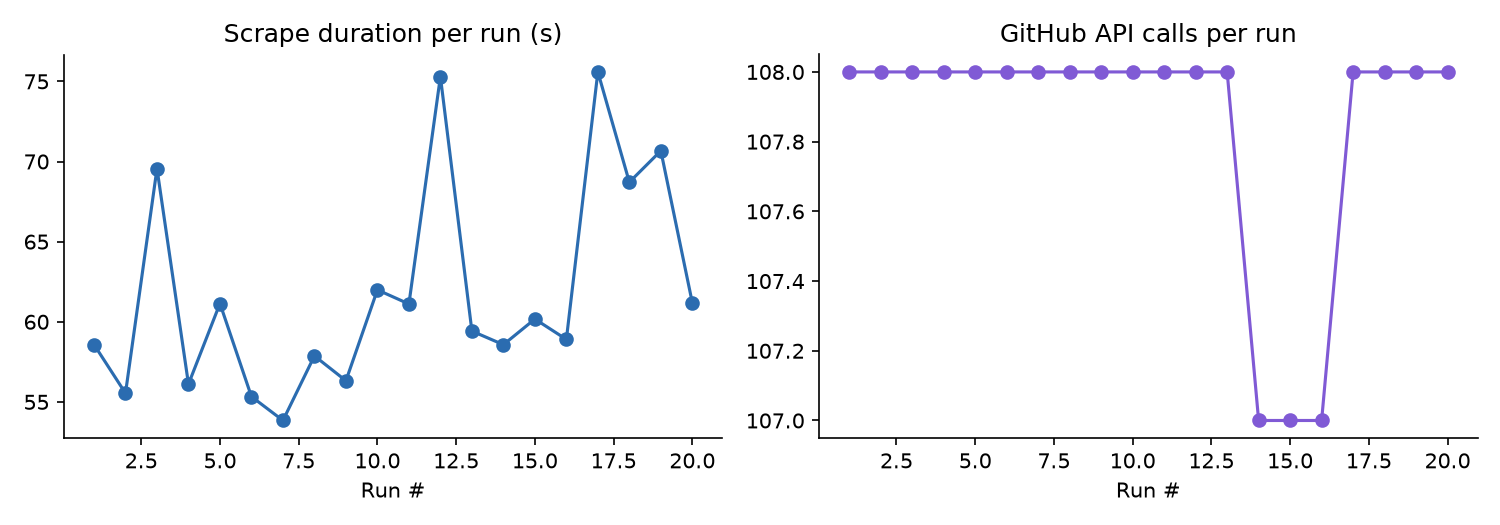
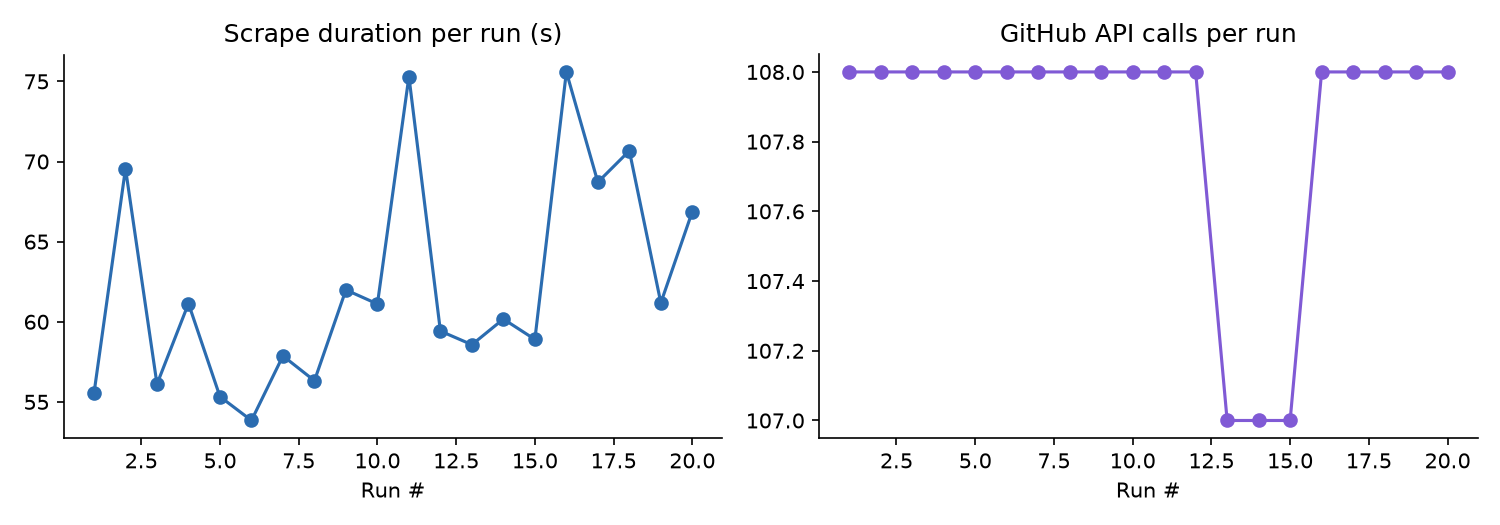
Weekly issue tracker refresh

diff --git a/README.md b/README.md
@@ -81,7 +81,7 @@ See [CONTRIBUTING.md](CONTRIBUTING.md) for the full contributor workflow — inc
 
 <!-- TRACKER:START -->
 
-_Last updated: 2026-07-30 15:44 UTC_
+_Last updated: 2026-07-30 16:18 UTC_
 
 _Tracking **18** upstream repos, **388** relevant open issues._
 
@@ -207,7 +207,7 @@ _Tracking **18** upstream repos, **388** relevant open issues._
 | ★★☆☆☆ | [#15637](https://github.com/langfuse/langfuse/issues/15637) bug: web container logs continuous 'All sentinels are unreachable' with Redis Sentinel + TLS, while worker on identical config is unaffected | bug, self-hosting, infra, Migrated | 5 | 2026-07-30 |
 | ★★☆☆☆ | [#15636](https://github.com/langfuse/langfuse/issues/15636) bug: GET /api/public/v2/observations silently ignores the sessionId query parameter | bug, feat-api, integration-otel, langfuse/langfuse, Public | 1 | 2026-07-30 |
 | ★★☆☆☆ | [#14868](https://github.com/langfuse/langfuse/issues/14868) bug: app-root observations are not exposed as roots in the Observations v2 API (non-null parentObservationId, no isRoot filter) | bug, sdk-python, 🐞❔ unconfirmed bug, integration-otel | 4 | 2026-07-30 |
-| ★☆☆☆☆ | [#15640](https://github.com/langfuse/langfuse/issues/15640) [aw] Weekly CI runtime analyst is missing required tool | CI, agentic-workflows | 2 | 2026-07-30 |
+| ★☆☆☆☆ | [#15640](https://github.com/langfuse/langfuse/issues/15640) [aw] Weekly CI runtime analyst is missing required tool | CI, agentic-workflows | 3 | 2026-07-30 |
 | ★☆☆☆☆ | [#15642](https://github.com/langfuse/langfuse/issues/15642) feat(public-api): add DELETE /api/public/score-configs/{configId} | feat-api, feat-scores, feat-deletion, Public | 1 | 2026-07-30 |
 
 ### [nightscout/cgm-remote-monitor](https://github.com/nightscout/cgm-remote-monitor)
@@ -295,7 +295,7 @@ _Tracking **18** upstream repos, **388** relevant open issues._
 
 <!-- METRICS:START -->
 
-_Last run: 2026-07-30 15:43 UTC, took **61.2s**, **108** GitHub API calls, **4784/5000** rate limit remaining._
+_Last run: 2026-07-30 16:17 UTC, took **66.9s**, **108** GitHub API calls, **4892/5000** rate limit remaining._
 
 ![Scrape metrics trend](assets/metrics_trend.png)
 
